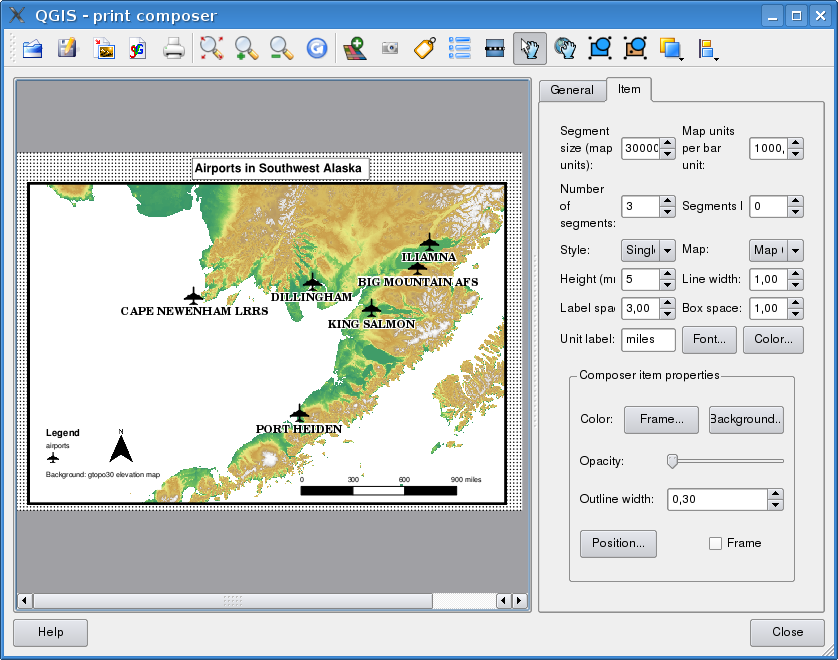
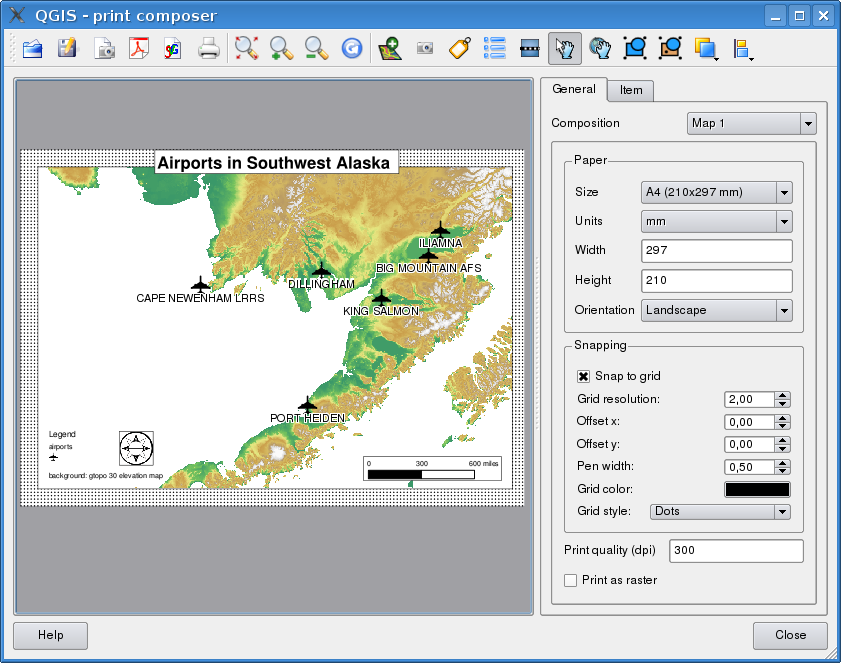
updated print composer section to version 1.2
git-svn-id: https://svn.osgeo.org/qgis/docs/trunk@11530 c8812cc2-4d05-0410-92ff-de0c093fc19c

diff --git a/english_us/user_guide/print_composer.tex b/english_us/user_guide/print_composer.tex
@@ -10,9 +10,9 @@ The print composer provides growing layout and printing
 capabilities. It allows you to add elements such as the QGIS map canvas, 
 legend, scalebar, images, and text labels. You can size, group 
 align and position each element and adjust the properties to create your
-layout. The layout can be printed (also to Postscript and PDF), exported to
-image formats or to SVG \footnote{Export to SVG supported, but it
-is not working properly with some recent QT4 versions. You should try and
+layout. The layout can be printed or exported to image formats, Postscript,
+PDF or to SVG \footnote{Export to SVG supported, but it is not working
+properly with some recent QT4 versions. You should try and
 check individual on your system} and you can save the layout as template and
 load it again in another session. See a list of tools in
 table~\ref{tab:printcomposer_tools}:
@@ -27,18 +27,19 @@ table~\ref{tab:printcomposer_tools}:
  & Load from template &
  \includegraphics[width=0.7cm]{mActionFileSaveAs} & Save as template \\
  \hline \includegraphics[width=0.7cm]{mActionExportMapServer}
- & Export to an image format & 
- \includegraphics[width=0.7cm]{mActionSaveAsSVG} & Export print composition 
- to SVG \\
+ & Export to an image format &
+ \includegraphics[width=0.7cm]{mActionSaveAsPDF} & Export as PDF \\
+ \hline \includegraphics[width=0.7cm]{mActionSaveAsSVG} & Export print
+ composition to SVG & & \\
  \hline \includegraphics[width=0.7cm]{mActionFilePrint} & Print or 
- export as PDF or Postscript &
+ export as Postscript &
  \includegraphics[width=0.7cm]{mActionZoomFullExtent} & Zoom to
  full extend \\
  \hline \includegraphics[width=0.7cm]{mActionZoomIn} & Zoom in &
  \includegraphics[width=0.7cm]{mActionZoomOut} & Zoom out \\
  \hline \includegraphics[width=0.7cm]{mActionDraw} & Refresh 
  view &
- \includegraphics[width=0.7cm]{mActionAddRasterLayer} & Add 
+ \includegraphics[width=0.7cm]{mActionAddMap} & Add 
  new map from QGIS map canvas \\
  \hline \includegraphics[width=0.7cm]{mActionSaveMapAsImage} & Add Image to 
  print composition &
@@ -122,7 +123,7 @@ extent.
 
 \subsubsection{Adding a current QGIS map canvas to the Print Composer}
 
-To add the QGIS map canvas, click on the \toolbtntwo{mActionAddRasterLayer}{Add new map 
+To add the QGIS map canvas, click on the \toolbtntwo{mActionAddMap}{Add new map 
 from QGIS map canvas} button in the print composer toolbar and drag a 
 rectangle on the composer canvas with the left mouse button to add the map. 
 You will see an empty box with a \textit{"Map will be printed here"} message.
@@ -147,24 +148,30 @@ up to a maximum resolution.
    \subfigure[Properties dialog] {\label{subfig:print_composer_map_item2}\includegraphics[clip=true, width=0.4\textwidth]{print_composer_map_item2}}
 \end{figure}
 
-You can resize the map later by clicking on the \toolbtntwo{mActionSelectPan}{Select/Move item} 
-button, selecting the element, and dragging one of the blue handles in the corner of the map. With the 
-map selected, you can now adapt more properties in the map \tab{Item} tab. Resize the map 
-item specifying the width and height or the scale. Define the map extend using Y and 
-X min/max values or clicking the \button{set to map canvas extend} button. Update the 
-map preview and select, whether to see a preview from cache or an empty rectangle with 
-a \textit{"Map will be printed here"} message. Define colors and outline width for the 
-element frame, set a background color and opacity for the map canvas. And you can also 
-select or unselect to display an element frame with the \checkbox{frame} checkbox 
-(see Figure~\ref{fig:print_composer_map_item}). If you change the view on the QGIS 
-map canvas by zooming or panning or changing vector or raster properties, you can 
-update the print composer view selecting the map element in the print composer and clicking 
-the \button{Update Preview} button in the map \tab{Item} tab 
-(see Figure~\ref{fig:print_composer_map_item}). 
+You can resize the map later by clicking on the
+\toolbtntwo{mActionSelectPan}{Select/Move item} button, selecting the
+element, and dragging one of the blue handles in the corner of the map. With
+the map selected, you can now adapt more properties in the map \tab{Item}
+tab. Resize the map item specifying the width and height or the scale. Define
+the map extend using Y and X min/max values or clicking the \button{set to
+map canvas extend} button. Update the map preview and select, whether to see
+a preview from cache or an empty rectangle with a \textit{"Map will be
+printed here"} message. Define colors and outline width for the element
+frame, set a background color and opacity for the map canvas. And you can
+also select or unselect to display an element frame with the \checkbox{frame}
+checkbox (see Figure~\ref{fig:print_composer_map_item}). If you change the
+view on the QGIS map canvas by zooming or panning or changing vector or
+raster properties, you can update the print composer view selecting the map
+element in the print composer and clicking the \button{Update Preview} button
+in the map \tab{Item} tab (see Figure~\ref{fig:print_composer_map_item}). 
 
 To move layers within the map element select the map element, click 
 the \toolbtntwo{mActionMoveItemContent}{Move item content} icon 
 and move the layers within the map element frame with the left mouse button.
+After you found the right place for an element, you can lock the element
+position within the print composer canvas. Select the map element and click
+on the right mouse button to \toolbtntwo{mIconLock}{lock} the element
+position and again to unlock the element.
 
 \subsubsection{Navigation tools}
 
@@ -243,10 +250,12 @@ define the resolution (print quality) and paper size:
 
 \begin{itemize}
 \item The \toolbtntwo{mActionFilePrint}{Print} icon allows to print the layout 
-to a connected printer or as PDF or Postscript file depending on installed printer 
+to a connected printer or a Postscript file depending on installed printer 
 drivers.
 \item The \toolbtntwo{mActionExportMapServer}{Export as image} icon exports the 
 composer canvas in several image formats such as PNG, BPM, TIF, JPG, \dots
+\item The \toolbtntwo{mActionSaveAsPDF}{Export as PDF} saves the defined
+print composer canvas directly as a PDF.
 \item The \toolbtntwo{mActionSaveAsSVG}{Export as SVG} icon saves the print 
 composer canvas as a SVG (Scalable Vector Graphic). \textbf{Note:} Currently the 
 SVG output is very basic. This is not a QGIS problem, but a problem of the underlaying 
